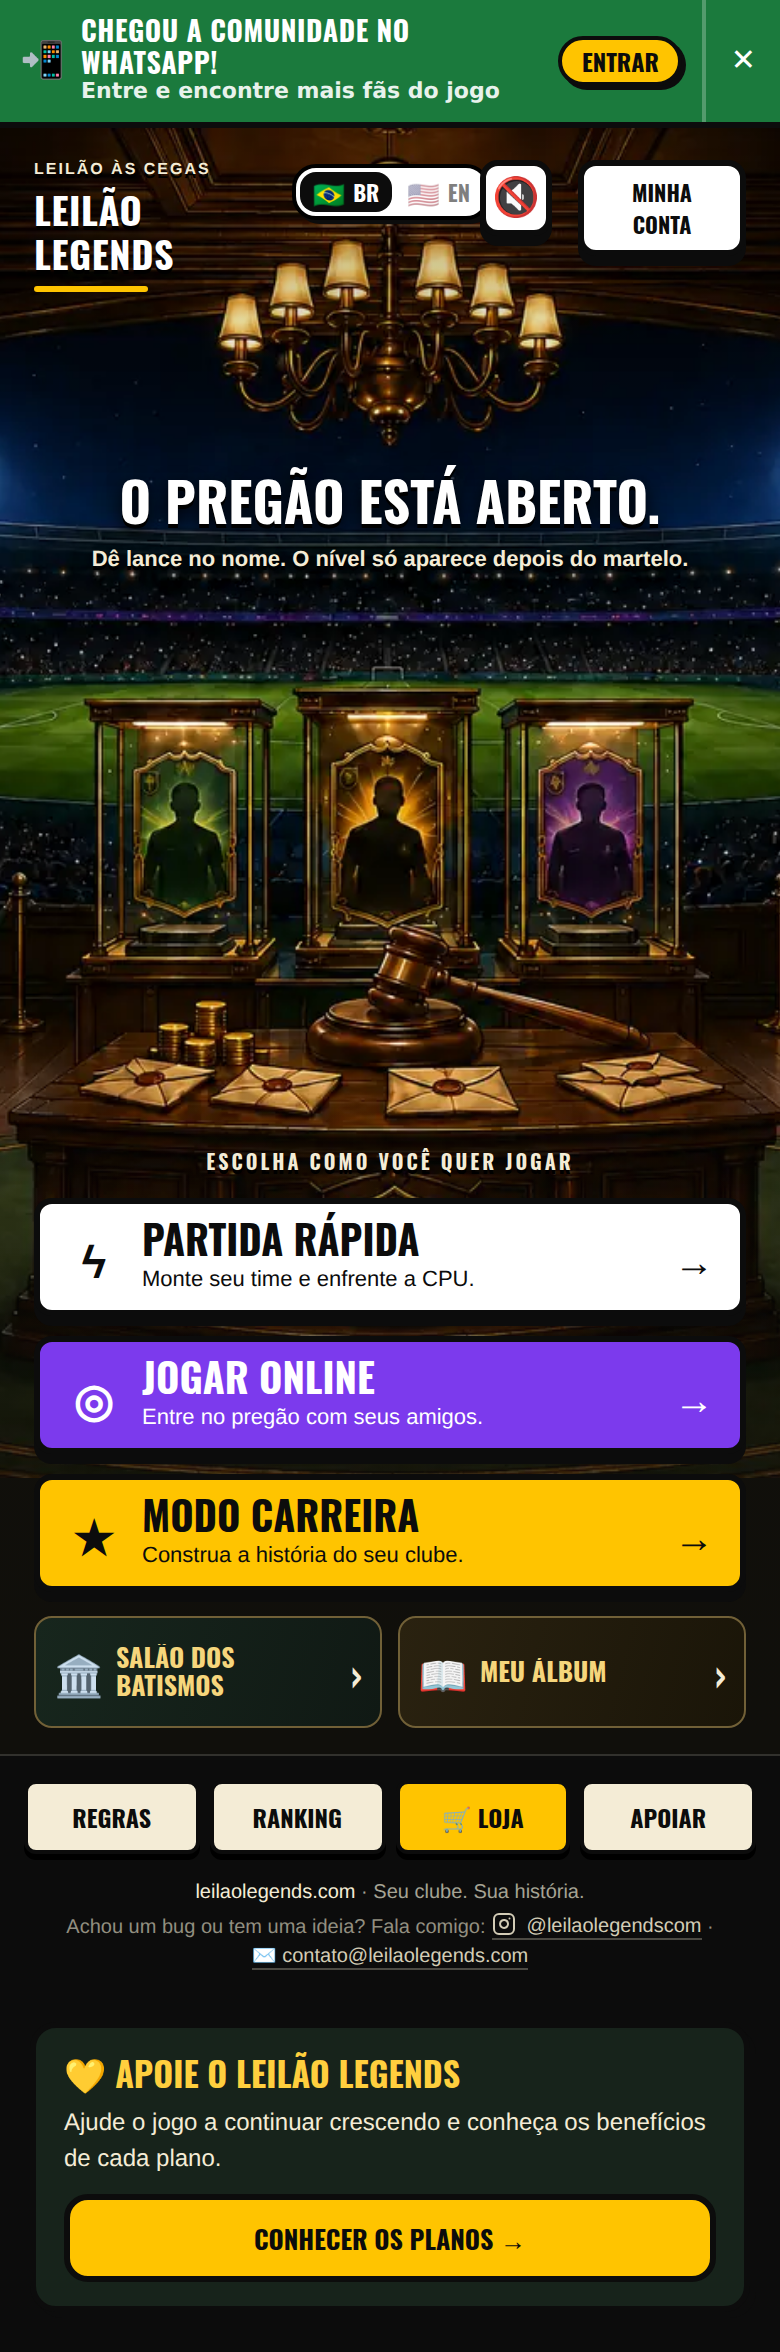
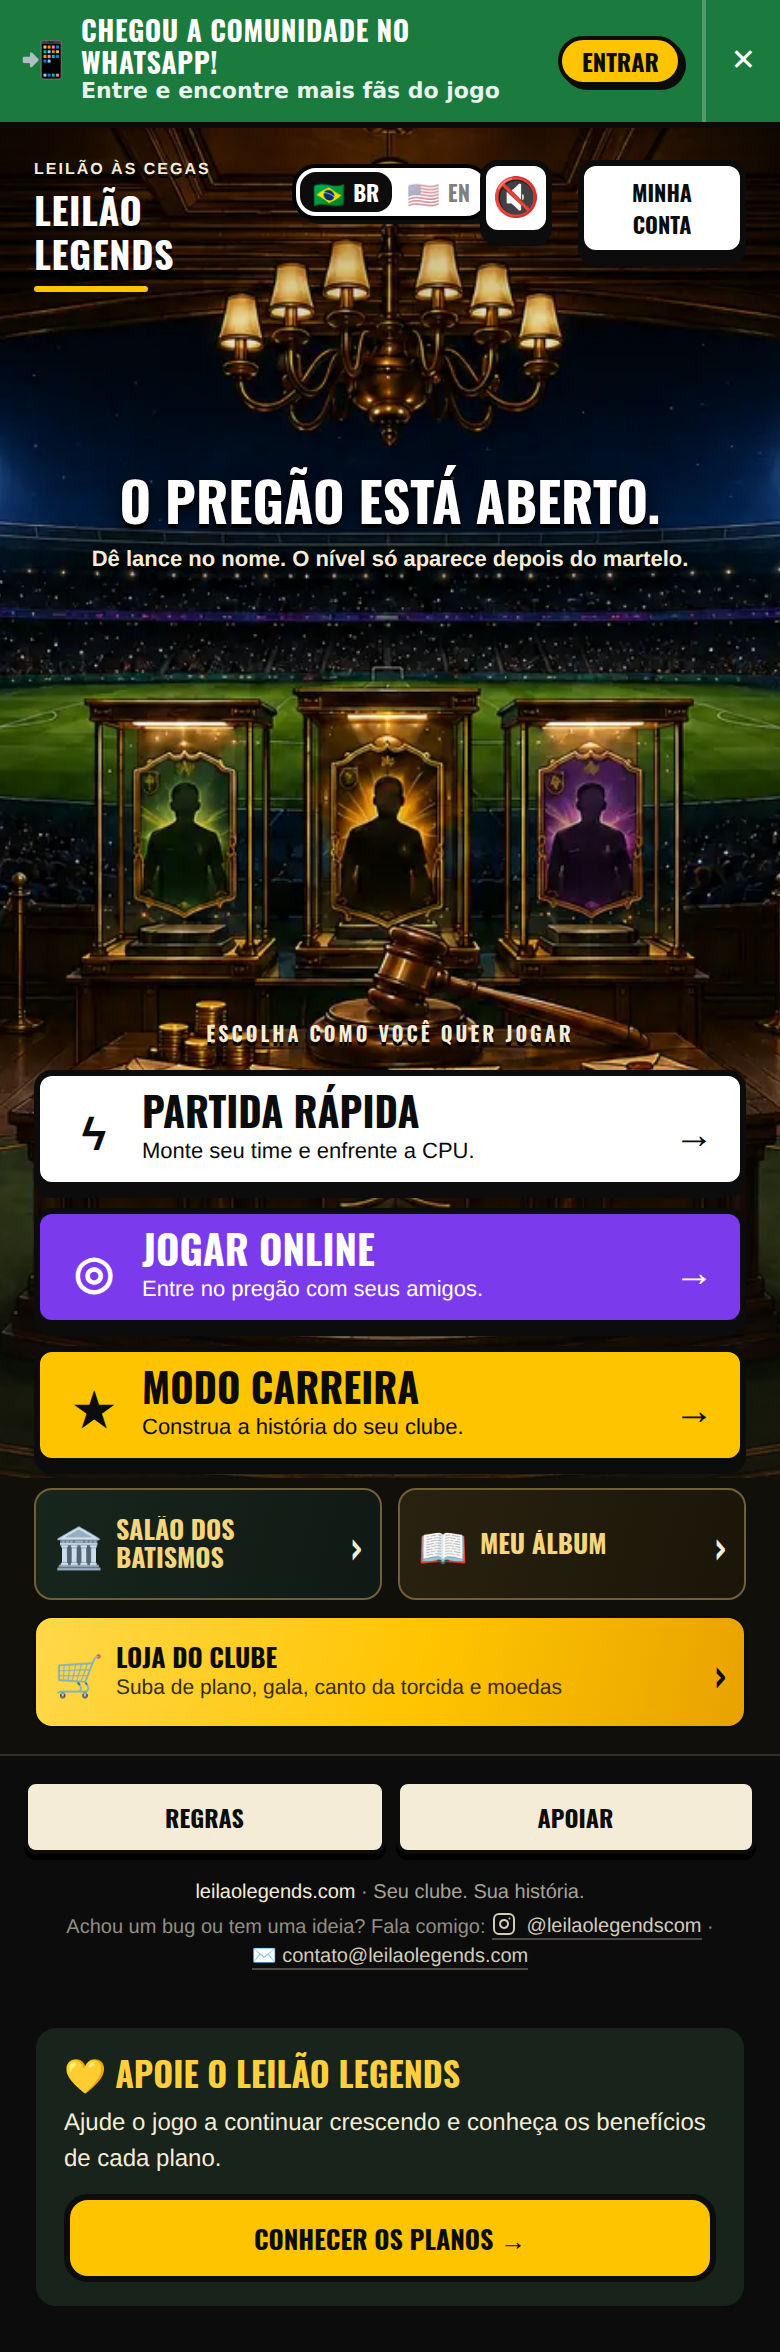
Home: Loja do Clube vira faixa dourada embaixo do Salão/Álbum; sai o botão RANKING (e o ÁLBUM repetido) do rodapé
Claude-Session: https://claude.ai/code/session_018Ap1zPCMVL9XeZJN3u93ZA

Changed region(s): [[0.0308, 0.4345, 0.9538, 0.807]]

diff --git a/src/escalacao/screens.tsx b/src/escalacao/screens.tsx
@@ -2051,7 +2051,7 @@ function HomeMenuFixo({ onInicio, onRegras, onAlbum, onRanking, apoiar }: {
 // 🏛 Vitrine ilustrada do salão do pregão. É deliberadamente um componente
 // isolado: a home geral continua no bloco antigo logo abaixo e pode ser
 // comparada/revertida sem misturar seus estilos com esta experiência.
-function HomeIlustradaDiego({ resumable, solo, onCareer, onCareers, onOnline, onQuick, onAlbum, onRanking, onManual, overlays }: {
+function HomeIlustradaDiego({ resumable, solo, onCareer, onCareers, onOnline, onQuick, onAlbum, onManual, overlays }: {
   resumable: ReturnType<typeof useResumableRoom>
   solo: ReturnType<typeof useResumableSolo>
   shared: boolean
@@ -2060,7 +2060,6 @@ function HomeIlustradaDiego({ resumable, solo, onCareer, onCareers, onOnline, on
   onOnline: () => void
   onQuick: () => void
   onAlbum: () => void
-  onRanking: () => void
   onManual: () => void
   onShare: () => void
   overlays: ReactNode
@@ -2099,13 +2098,15 @@ function HomeIlustradaDiego({ resumable, solo, onCareer, onCareers, onOnline, on
         <div className="ll-extras">
           <button className="ll-salao-entry" onClick={() => { setVerSalao(true); window.scrollTo(0, 0) }}><span aria-hidden="true">🏛</span><span><strong>{t('SALÃO DOS BATISMOS', 'HALL OF NAMED CLUBS')}</strong><small>{t('Conheça os clubes da comunidade', 'Meet the community’s clubs')}</small></span><span aria-hidden="true">›</span></button>
           <button className="ll-salao-entry ll-album-entry" onClick={onAlbum}><span aria-hidden="true">📖</span><span><strong>{t('MEU ÁLBUM', 'MY ALBUM')}</strong><small>{t('Cartas, coleções e trocas', 'Cards, collections and trades')}</small></span><span aria-hidden="true">›</span></button>
+          {/* 🛒 LOJA DO CLUBE (14/10): faixa dourada de largura inteira, embaixo do Salão e do Álbum — Diego: "a loja precisa ter melhor a visão" */}
+          <LojaButton className="ll-salao-entry ll-loja-entry"><span aria-hidden="true">🛒</span><span><strong>{t('LOJA DO CLUBE', 'CLUB SHOP')}</strong><small>{t('Suba de plano, gala, canto da torcida e moedas', 'Move up a plan, grand entrance, crowd chant and coins')}</small></span><span aria-hidden="true">›</span></LojaButton>
         </div>
       </section>
       <footer className="ll-footer">
         <nav aria-label="Mais opções">
-          {/* 🛒 LOJA DO CLUBE (14/10, mockup aprovado: "adorei"). No header não coube no celular (o botão de som mora ali);
-              entra no rodapé no lugar do ÁLBUM, que já tem a entrada grande "📖 MEU ÁLBUM" logo acima. */}
-          <button onClick={onManual}>{t('REGRAS', 'RULES')}</button><button onClick={onRanking}>{t('RANKING', 'RANKING')}</button><LojaButton className="ll-loja" />
+          {/* 14/10 (Diego): saiu o RANKING da home (*"basta o ranking dentro da carreira e o semanal das salas online"*) e o
+              ÁLBUM repetido (já tem a entrada grande "📖 MEU ÁLBUM"). A Loja virou faixa dourada lá em cima, junto do Salão. */}
+          <button onClick={onManual}>{t('REGRAS', 'RULES')}</button>
           <ApoieButton trigger={open => <button onClick={open}>{t('APOIAR', 'SUPPORT')}</button>} />
         </nav>
         <div className="ll-web">
@@ -2185,7 +2186,6 @@ export function EscIntro() {
       onOnline={() => dispatch({ type: 'GO_LOBBY_ONLINE' })}
       onQuick={() => dispatch({ type: 'GO_SETUP' })}
       onAlbum={() => dispatch({ type: 'GO_ALBUM' })}
-      onRanking={() => dispatch({ type: 'GO_RANKING' })}
       onManual={() => setShowManual(true)}
       onShare={shareGame}
       overlays={<>

diff --git a/src/escalacao/loja-clube.tsx b/src/escalacao/loja-clube.tsx
@@ -41,10 +41,10 @@ const GANHO: Record<PlanoUnico, [string, string]> = {
 
 type Item = { id: string; amount: number; ctx: string; msgPt: string; msgEn: string }
 
-export function LojaButton({ className }: { className?: string }) {
+export function LojaButton({ className, children }: { className?: string; children?: React.ReactNode }) {
   const [aberta, setAberta] = useState(false)
   return <>
-    <button className={className} onClick={() => { logApoio('🛒 abriu a loja'); setAberta(true) }}>{tr('🛒 LOJA', '🛒 SHOP')}</button>
+    <button className={className} onClick={() => { logApoio('🛒 abriu a loja'); setAberta(true) }}>{children ?? tr('🛒 LOJA', '🛒 SHOP')}</button>
     {aberta && <Loja onClose={() => setAberta(false)} />}
   </>
 }

diff --git a/src/escalacao/home-ilustrada.css b/src/escalacao/home-ilustrada.css
@@ -69,4 +69,5 @@
   .ll-home .ll-choices{bottom:136px}
 }
 /* 🛒 Loja do Clube (14/10): botão dourado do lado de MINHA CONTA */
-.ll-home .ll-footer .ll-loja{background:#ffc400}
+.ll-home .ll-extras{flex-wrap:wrap!important}.ll-home .ll-loja-entry{flex:1 1 100%!important;background:linear-gradient(105deg,#ffd84a,#ffc400 55%,#e8a200)!important;border-color:#0c0c0c!important}
+.ll-home .ll-loja-entry strong{color:#0c0c0c!important}.ll-home .ll-loja-entry small{color:#3a2c00!important;display:block!important}.ll-home .ll-loja-entry>span:last-child{color:#0c0c0c}
